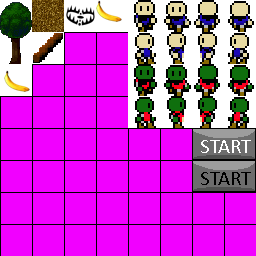
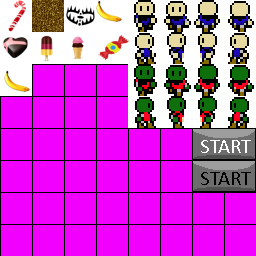
Klar
Mitt rum är i allmänhet klar

Changed region(s): [[0.125, 0.125, 0.5, 0.25], [0.0, 0.0, 0.125, 0.25]]

diff --git a/Runner/src/javaapp/Runner/States/Banana.java b/Runner/src/javaapp/Runner/States/Banana.java
@@ -6,13 +6,19 @@ import java.util.Timer;
 import javaapp.Runner.Gameengine.Assets;
 import javaapp.Runner.Gameengine.Player;
 
+/**
+ * 
+ * @author jenny
+ *
+ */
 
-//Author Jenny Karlsson 
 
 public class Banana {
 	
 	private float xPos; 
 	private float yPos;
+	
+	public int time = 200;
 	
 	public static boolean flagga1 = true; 
 	public static boolean flagga2 = true; 
@@ -24,9 +30,9 @@ public class Banana {
 	public static boolean flagga8 = true;
 	public static boolean flagga9 = true;
 	public static boolean flagga10 = true; 
-	
-	
-	public int time = 200;
+	public static boolean flagga11 = true;
+	public static boolean flagga12 = true;
+	public static boolean flagga13 = true;
 	
 	public Banana() {
 
@@ -51,46 +57,55 @@ public class Banana {
 	public void tick() {
 		time ++;
 	
-		if(Player.getXPos() > 355 && Player.getXPos() < 400 && Player.getYPos() > 542 && Player.getYPos() < 576 && time > 200)
+		if(Player.getXPos() > 355 && Player.getXPos() < 400 && Player.getYPos() > 170 && Player.getYPos() < 200 && time > 200)
 			flagga1 =false;
-		if(Player.getXPos() > 200 && Player.getXPos() <245 && Player.getYPos() > 295 && Player.getYPos()< 325 && time > 299)	
+		if(Player.getXPos() > 200 && Player.getXPos() < 245 && Player.getYPos() > 295 && Player.getYPos() < 325 && time > 299)	
 			flagga2 = false;
-		if(Player.getXPos() > 100 && Player.getXPos() <130 && Player.getYPos() > 515 && Player.getYPos()< 525 && time > 200)
+		if(Player.getXPos() > 100 && Player.getXPos() < 130 && Player.getYPos() > 515 && Player.getYPos() < 525 && time > 200)
 			flagga3 = false;
-		if(Player.getXPos() > 250 && Player.getXPos() < 285 && Player.getYPos() > 595 && Player.getYPos()< 625 && time > 200)
+		if(Player.getXPos() > 250 && Player.getXPos() < 285 && Player.getYPos() > 595 && Player.getYPos() < 625 && time > 200)
 			flagga4 = false;
-		if(Player.getXPos() > 645 && Player.getXPos() < 690 && Player.getYPos() > 320 && Player.getYPos()< 350 && time > 200)
+		if(Player.getXPos() > 645 && Player.getXPos() < 690 && Player.getYPos() > 320 && Player.getYPos() < 350 && time > 200)
 			flagga5 = false;
-		if(Player.getXPos() > 656 && Player.getXPos() < 710 && Player.getYPos() > 220 && Player.getYPos()< 240 && time > 200)
+		if(Player.getXPos() > 656 && Player.getXPos() < 710 && Player.getYPos() > 220 && Player.getYPos() < 240 && time > 200)
 			flagga6 = false;
-		if(Player.getXPos() > 425 && Player.getXPos() < 455 && Player.getYPos() > 560 && Player.getYPos() < 590) 
+		if(Player.getXPos() > 410 && Player.getXPos() < 435 && Player.getYPos() > 560 && Player.getYPos() < 600 && time > 200) 
 			flagga7 = false;
-		if(Player.getXPos() > 300 && Player.getXPos() < 340 && Player.getYPos() > 320 && Player.getYPos() < 300) 
+		if(Player.getXPos() > 295 && Player.getXPos() < 340 && Player.getYPos() > 270 && Player.getYPos() < 300 && time > 200) 
 			flagga8 = false;
-		if(Player.getXPos() > 300 && Player.getXPos() < 350 && Player.getYPos() > 710 && Player.getYPos() < 740) 
+		if(Player.getXPos() > 225 && Player.getXPos() < 270 && Player.getYPos() > 170 && Player.getYPos() < 200 && time > 200) 
 			flagga9 = false;
-		if(Player.getXPos() > 150 && Player.getXPos() < 210 && Player.getYPos() > 450 && Player.getYPos() < 480) 
+		if(Player.getXPos() > 150 && Player.getXPos() < 210 && Player.getYPos() > 450 && Player.getYPos() < 480 && time > 200) 
 			flagga10 = false;
-		
+		if(Player.getXPos() > 400 && Player.getXPos() < 440 && Player.getYPos() > 420 && Player.getYPos() < 450 && time > 200) 
+			flagga11 = false;
+		if(Player.getXPos() > 455 && Player.getXPos() < 500 && Player.getYPos() > 450 && Player.getYPos() < 480 && time > 200) 
+			flagga12 = false;
+		if(Player.getXPos() > 660 && Player.getXPos() < 700 && Player.getYPos() > 510 && Player.getYPos() < 540 && time > 200) 
+			flagga13 = false;
 	}
+	/**
+	 * Metode ritar ut godisar 
+	 * @param g 
+	 */
 	public void render(Graphics g) {
 		
 		//Remove 25 pixels, add 20 pixels, remove 30 pixels, keep the value
 		// if not vurly brackets the banan wont be shown after
 		if(flagga1) {
-			g.drawImage(Assets.banana, (int)380 , (int) 576, null);
+			g.drawImage(Assets.banana, (int)380 , (int) 200, null);
 		}
 		if(flagga2){
-			g.drawImage(Assets.banana, (int)225 , (int) 325, null);
+			g.drawImage(Assets.icecream, (int)225 , (int) 325, null);
 		}
 		if(flagga3){
-			g.drawImage(Assets.banana, (int) 125, (int) 525, null); 
+			g.drawImage(Assets.icecream2, (int) 125, (int) 525, null); 
 		}
 		if(flagga4){
-			g.drawImage(Assets.banana, (int) 275, (int) 625, null);
+			g.drawImage(Assets.chocolate, (int) 275, (int) 625, null);
 		}
 		if(flagga5){
-			g.drawImage(Assets.banana, (int) 670, (int) 350, null);
+			g.drawImage(Assets.candyKane, (int) 670, (int) 350, null);
 		}
 		if(flagga6){
 			g.drawImage(Assets.banana, (int) 690, (int) 240, null);
@@ -102,13 +117,21 @@ public class Banana {
 			g.drawImage(Assets.banana, (int) 320, (int) 300, null); 
 		}
 		if(flagga9) {
-			g.drawImage(Assets.banana, (int) 330, (int) 740, null);
+			g.drawImage(Assets.banana, (int) 250, (int) 200, null);
 		}
 		if(flagga10) {
 			g.drawImage(Assets.banana,(int) 180, (int) 480, null);
 		}
-		
-		
+		if(flagga11) {
+			g.drawImage(Assets.banana,(int) 420, (int) 450, null);
+		}
+		if(flagga12) {
+			g.drawImage(Assets.icecream,(int) 480, (int) 480, null);
+		}
+		if(flagga13) {
+			g.drawImage(Assets.icecream2,(int) 685, (int) 540, null);
+		}
+
 	}
 
 	

diff --git a/Runner/src/javaapp/Runner/States/Trap.java b/Runner/src/javaapp/Runner/States/Trap.java
@@ -7,8 +7,11 @@ import javaapp.Runner.Gameengine.Assets;
 import javaapp.Runner.Gameengine.Gameengine;
 import javaapp.Runner.Gameengine.Player;
 
-//Author Jenny Karlsson
-
+/**
+ * 
+ * @author jenny
+ *
+ */
 public class Trap  {
 
 	private float posX, posY; 
@@ -28,7 +31,21 @@ public class Trap  {
 		restartPlayer();
 	if(Player.getXPos() > 130 && Player.getXPos() < 180 && Player.getYPos() > 550 && Player.getYPos() < 600) 
 		restartPlayer();
-	if(Player.getXPos() > 550 && Player.getYPos() < 600 && Player.getYPos() > 450 && Player.getYPos() < 500)
+	if(Player.getXPos() > 550 && Player.getXPos() < 600 && Player.getYPos() > 450 && Player.getYPos() < 500)
+		restartPlayer();
+	if(Player.getXPos() > 130 && Player.getXPos() < 170 && Player.getYPos() > 275 && Player.getYPos() < 325)
+		restartPlayer();
+	if(Player.getXPos() > 90 && Player.getXPos() < 130 && Player.getYPos() > 140 && Player.getYPos() < 190)
+		restartPlayer();
+	if(Player.getXPos() > 640 && Player.getXPos() < 690 && Player.getYPos() > 150 && Player.getYPos() < 180)
+		restartPlayer();
+	if(Player.getXPos() > 600 && Player.getXPos() < 640 && Player.getYPos() > 350 && Player.getYPos() < 390)
+		restartPlayer();
+	if(Player.getXPos() > 90 && Player.getXPos() < 105 && Player.getYPos() > 450 && Player.getYPos() < 490)
+		restartPlayer();
+	if(Player.getXPos() > 295 && Player.getXPos() < 315 && Player.getYPos() > 170 && Player.getYPos() < 210)
+		restartPlayer();
+	if(Player.getXPos() > 450 && Player.getXPos() < 490 && Player.getYPos() > 170 && Player.getYPos() < 210)
 		restartPlayer();
 	}
 	//Remove 50 pixels, keep the value, remove 50 pixels, keep the value
@@ -54,6 +71,10 @@ public class Trap  {
 		Banana.flagga8 = true;
 		Banana.flagga9 = true;
 		Banana.flagga10 = true;
+		Banana.flagga11 = true;
+		Banana.flagga12 = true;
+		Banana.flagga13 = true;
+		
 	}
 	
 	public void render(Graphics g){
@@ -65,7 +86,13 @@ public class Trap  {
 		g.drawImage(Assets.trap, (int) 280, (int) 500, null);
 		g.drawImage(Assets.trap, (int) 180, (int) 600, null);
 		g.drawImage(Assets.trap, (int) 600, (int) 500, null);
-		
+		g.drawImage(Assets.trap, (int) 170, (int) 325, null); 
+		g.drawImage(Assets.trap, (int) 130, (int) 190, null);
+		g.drawImage(Assets.trap, (int) 690, (int) 200, null);
+		g.drawImage(Assets.trap, (int) 420, (int) 390, null);
+		g.drawImage(Assets.trap, (int) 105, (int) 490, null);
+		g.drawImage(Assets.trap, (int) 315, (int) 220, null);
+		g.drawImage(Assets.trap, (int) 490, (int) 210, null);
 		
 	}
 	

diff --git a/Runner/src/javaapp/Runner/Gameengine/Assets.java b/Runner/src/javaapp/Runner/Gameengine/Assets.java
@@ -11,7 +11,9 @@ public class Assets {
 	private static final int widthJenny = 32, heightJenny = 32;
 	
 	public static BufferedImage player, player2, player3, player4, room1,banner1,room2,room3, room4,
-		NoFire, Fire, TopBanner,Door, ball1, banana, trap, zombie;
+								NoFire, Fire, TopBanner,Door, ball1, banana, icecream, icecream2, 
+								chocolate, candyKane, trap;
+	
 	public static BufferedImage[] FireArray; 
 
 	public static void init(){
@@ -22,7 +24,7 @@ public class Assets {
 		SpriteSheet room = new SpriteSheet(ImageLoader.loadImage("/b.png"));
 		SpriteSheet room_second = new SpriteSheet(ImageLoader.loadImage("/Room_Ric.png"));
 		SpriteSheet room_third = new SpriteSheet(ImageLoader.loadImage("/roomdani.png"));		
-		SpriteSheet room_fourth = new SpriteSheet(ImageLoader.loadImage("/Room_Foo.png"));
+		SpriteSheet room_fourth = new SpriteSheet(ImageLoader.loadImage("/Room_Foo2.png"));
 		SpriteSheet fire = new SpriteSheet(ImageLoader.loadImage("/FireSheet.png"));
 		
 		TopBanner = ImageLoader.loadImage("/topbanner24.png");
@@ -36,8 +38,10 @@ public class Assets {
 		//Jennys items
 		banana = jennysheet.crop(widthJenny * 3, 0, widthJenny, heightJenny); 
 		trap = jennysheet.crop(widthJenny * 2, 0, widthJenny, heightJenny);		
-		zombie = jennysheet.crop(widthJenny , 0, widthJenny, heightJenny);	
-		
+		icecream = jennysheet.crop(widthJenny, heightJenny, widthJenny, heightJenny);
+		icecream2 = jennysheet.crop(widthJenny * 2, heightJenny , widthJenny, heightJenny);
+		chocolate = jennysheet.crop(0, heightJenny, widthJenny, heightJenny);
+		candyKane = jennysheet.crop(0, 0, widthJenny, heightJenny);
 	
 		room1 = room.crop(0,0,822,668);
 		room2 = room_second.crop(0,0,822,668);
@@ -54,8 +58,6 @@ public class Assets {
 		FireArray[3] = fire.crop(57,0,19,82);
 		FireArray[4] = fire.crop(76,0,19,82);
 		
-		
-
 		
 		//comment
 		

diff --git a/Runner/src/javaapp/Runner/States/RoomState4.java b/Runner/src/javaapp/Runner/States/RoomState4.java
@@ -5,38 +5,41 @@ import javaapp.Runner.Gameengine.Assets;
 import javaapp.Runner.Gameengine.Gameengine;
 import javaapp.Runner.Gameengine.Player;
 
-//Author Jenny Karlsson
+/**
+ * 
+ * @author jenny
+ *
+ */
+
 
 public class RoomState4 extends States {
 
 	private States roomstate5, roomstate1;
-	private Player player;
 	private static int doorposY = 53;
 	private Banana banana;
 	private Trap trap;
-	private Zombie zombie;
+
 
 
 	public RoomState4(Gameengine game) {
 		super(game);
 		roomstate1 = new RoomState1(game);
 		roomstate5 = new RoomState5(game);
-		player = new Player(game, 500, 500);
+	//	player = new Player(game, 500, 500);
 		banana = new Banana();
 		trap = new Trap();
-		zombie = new Zombie(game, 480, 180, 3);
+		
 		
 	}
 	
 	public void tick() {
-		player.tick();
+		//player.tick();
 		banana.tick();
 		trap.tick();
-		zombie.tick();
+	
 		
-		if(!Banana.flagga1 && !Banana.flagga2 && !Banana.flagga3 && !Banana.flagga5
-				&& !Banana.flagga6 && !Banana.flagga7 && !Banana.flagga8 && !Banana.flagga9
-				&& !Banana.flagga10){
+		if(!Banana.flagga1 && !Banana.flagga2 && !Banana.flagga3 && !Banana.flagga4 && !Banana.flagga5 && !Banana.flagga6 && !Banana.flagga7 && !Banana.flagga8 && !Banana.flagga9 && !Banana.flagga10 && !Banana.flagga11 && !Banana.flagga12 && !Banana.flagga13)
+		{
 			doorposY--;
 			if(Player.getYPos()< 130 && Player.getXPos()>300 && Player.getXPos() < 400)
 			{
@@ -53,8 +56,7 @@ public class RoomState4 extends States {
 		g.drawImage(Assets.Door, (int) 350, (int) doorposY, null);
 		banana.render(g);
 		trap.render(g);
-		player.render(g);
-		zombie.render(g);
+		//player.render(g);
 	}
 
 	public void pickUp() {
